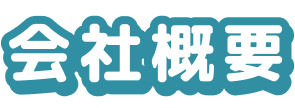
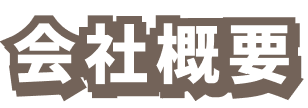
title png 差し替え

diff --git a/src/components/contact/ContactStyles.ts b/src/components/contact/ContactStyles.ts
@@ -13,20 +13,20 @@ const main = css`
 const title = css`
   ${style.mixin.titleBottomBorder()}
   img {
-    width: ${style.vwSp(212)};
+    width: ${style.vwSp(214)};
   }
   &.error {
     img {
-      width: ${style.vwSp(304)};
+      width: ${style.vwSp(310)};
     }
   }
   ${style.pc(css`
     img {
-      width: 212px;
+      width: 214px;
     }
     &.error {
       img {
-        width: 304px;
+        width: 310px;
       }
     }
   `)}

diff --git a/src/components/blog/BlogDetailInner.tsx b/src/components/blog/BlogDetailInner.tsx
@@ -203,7 +203,7 @@ const main = css`
 const title = css`
   ${style.mixin.titleBottomBorder()}
   img {
-    width: ${style.vwSp(104)};
+    width: ${style.vwSp(118)};
   }
   &::before {
     background-color: ${style.colors.blogDark};
@@ -214,7 +214,7 @@ const title = css`
   }
   ${style.pc(css`
     img {
-      width: 104px;
+      width: 118px;
     }
   `)}
 `

diff --git a/src/components/works/WorksDetailInner.tsx b/src/components/works/WorksDetailInner.tsx
@@ -221,7 +221,7 @@ const main = css`
 const title = css`
   ${style.mixin.titleBottomBorder()}
   img {
-    width: ${style.vwSp(212)};
+    width: ${style.vwSp(221)};
   }
   a {
     display: inline-block;
@@ -229,7 +229,7 @@ const title = css`
   }
   ${style.pc(css`
     img {
-      width: 212px;
+      width: 221px;
     }
   `)}
 `

diff --git a/src/components/blog/BlogIndexInner.tsx b/src/components/blog/BlogIndexInner.tsx
@@ -180,14 +180,14 @@ const main = css`
 const title = css`
   ${style.mixin.titleBottomBorder()}
   img {
-    width: ${style.vwSp(104)};
+    width: ${style.vwSp(118)};
   }
   &::before {
     background-color: ${style.colors.blogDark};
   }
   ${style.pc(css`
     img {
-      width: 104px;
+      width: 118px;
     }
   `)}
 `

diff --git a/src/components/about/AboutInner.tsx b/src/components/about/AboutInner.tsx
@@ -142,11 +142,11 @@ const main = css`
 const title = css`
   ${style.mixin.titleBottomBorder()}
   img {
-    width: ${style.vwSp(142)};
+    width: ${style.vwSp(154)};
   }
   ${style.pc(css`
     img {
-      width: 140px;
+      width: 154px;
     }
   `)}
 `

diff --git a/src/components/member/MemberInner.tsx b/src/components/member/MemberInner.tsx
@@ -109,11 +109,11 @@ const main = css`
 const title = css`
   ${style.mixin.titleBottomBorder()}
   img {
-    width: ${style.vwSp(140)};
+    width: ${style.vwSp(150)};
   }
   ${style.pc(css`
     img {
-      width: 140px;
+      width: 150px;
     }
   `)}
 `

diff --git a/src/components/privacy/PrivacyInner.tsx b/src/components/privacy/PrivacyInner.tsx
@@ -209,11 +209,11 @@ const main = css`
 const title = css`
   ${style.mixin.titleBottomBorder()}
   img {
-    width: ${style.vwSp(355)};
+    width: ${style.vwSp(365)};
   }
   ${style.pc(css`
     img {
-      width: 355px;
+      width: 365px;
     }
   `)}
 `

diff --git a/src/components/works/WorksIndexInner.tsx b/src/components/works/WorksIndexInner.tsx
@@ -183,11 +183,11 @@ const main = css`
 const title = css`
   ${style.mixin.titleBottomBorder()}
   img {
-    width: ${style.vwSp(212)};
+    width: ${style.vwSp(221)};
   }
   ${style.pc(css`
     img {
-      width: 212px;
+      width: 221px;
     }
   `)}
 `
